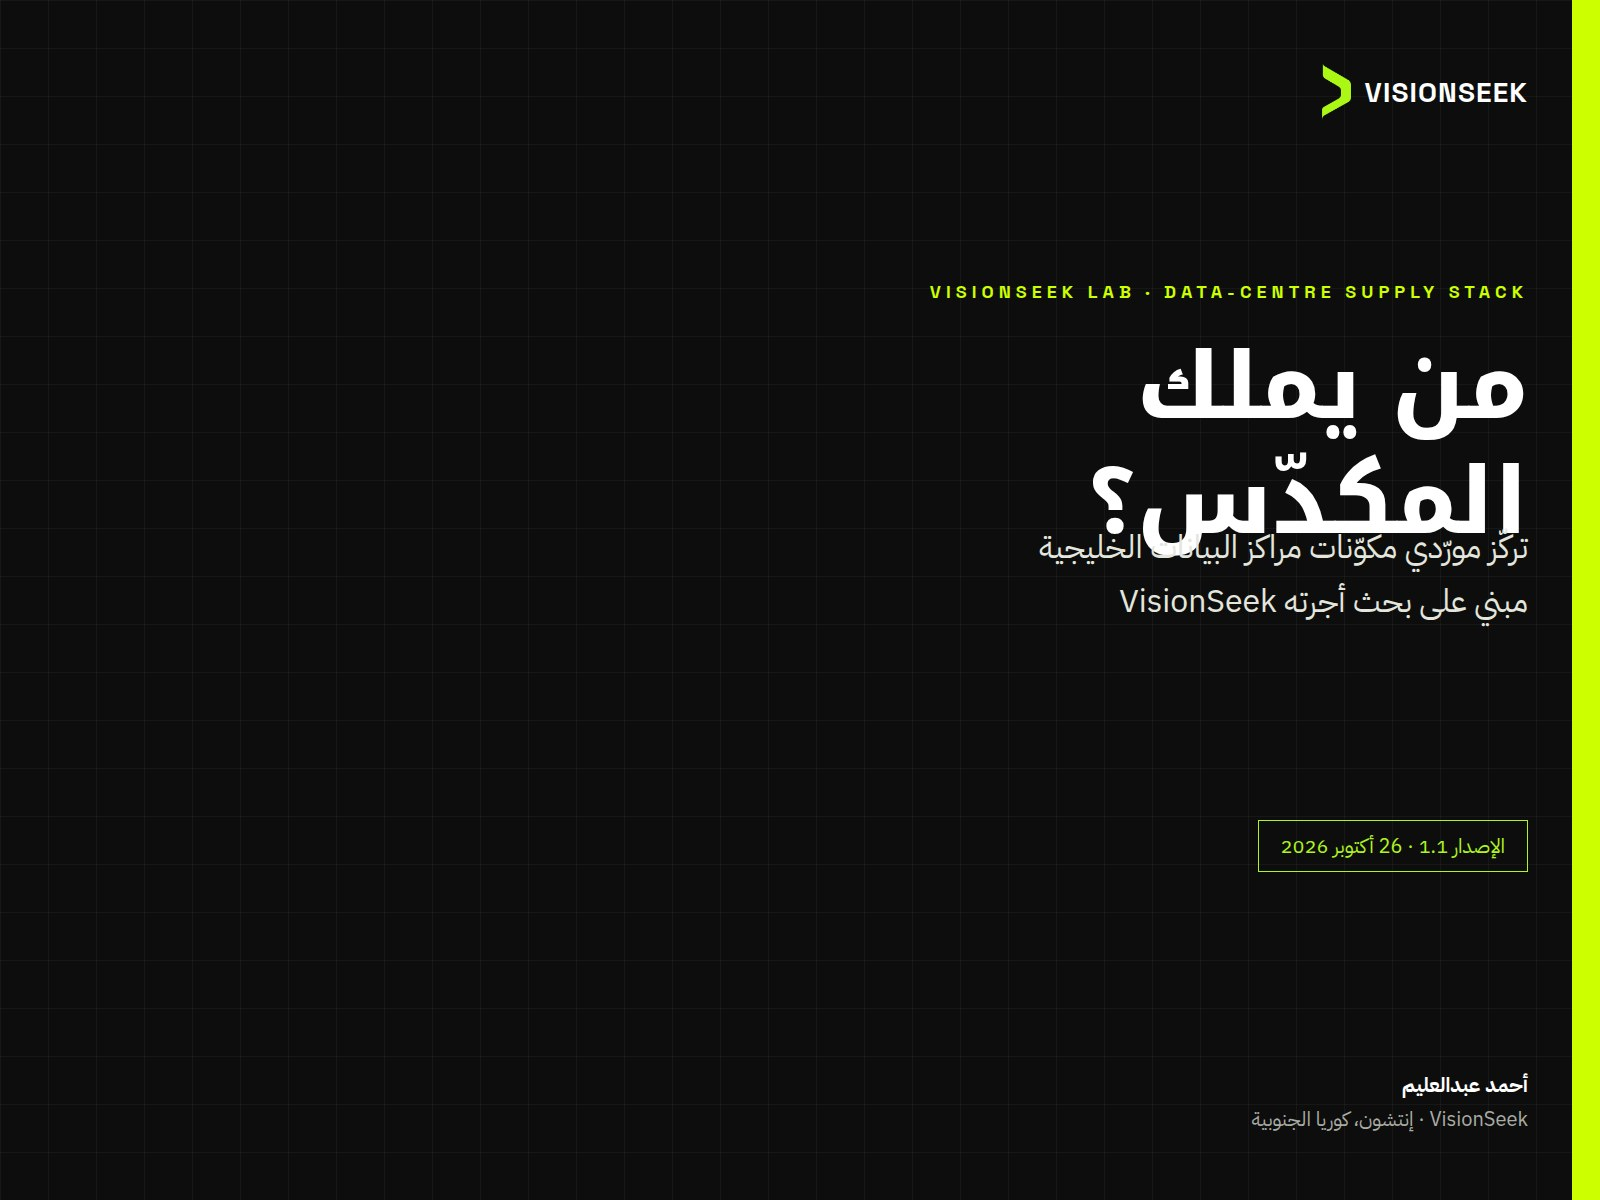
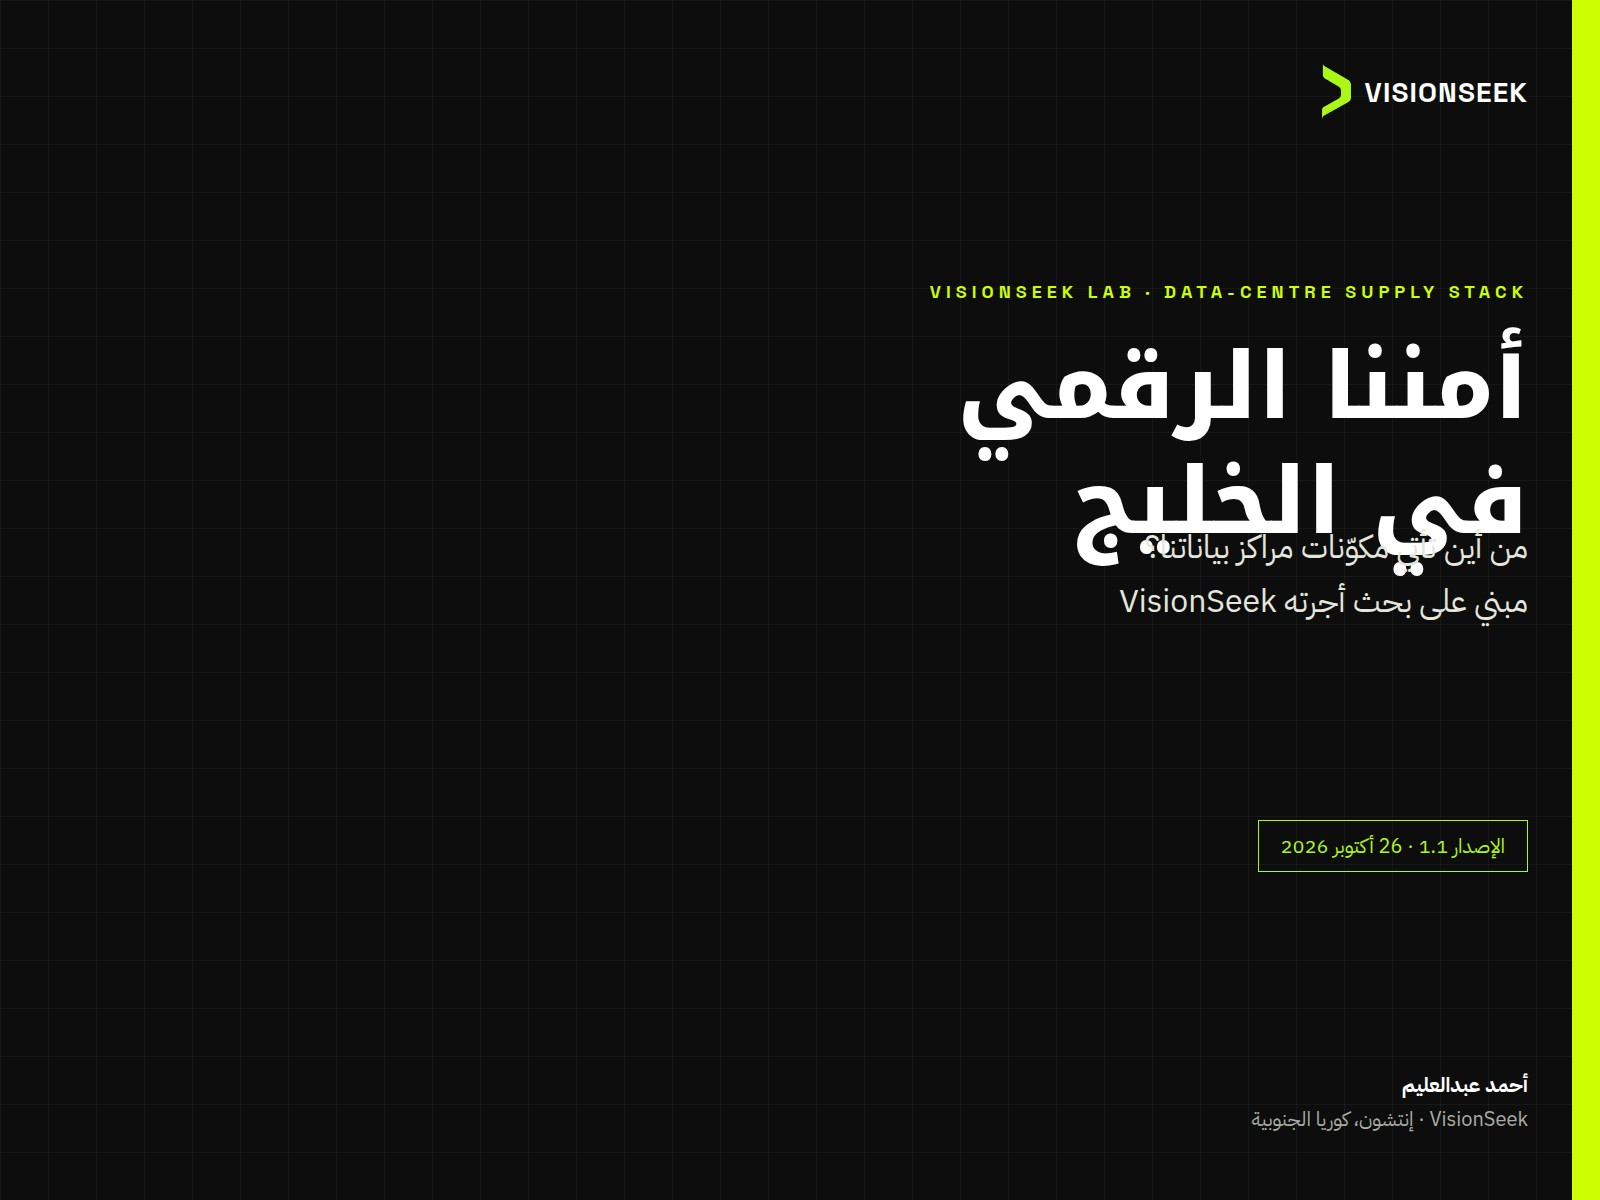
Preview: regenerate three report covers with the new titles
Listing cards were still showing the old headings on the cover images. Update cover.html and replace the public JPEGs so the card image matches the new Arabic title.

Changed region(s): [[0.5938, 0.2775, 0.9688, 0.4933]]

diff --git a/scripts/insights/ai-ministry-health-answers/cover.html b/scripts/insights/ai-ministry-health-answers/cover.html
@@ -2,7 +2,7 @@
 <html lang="ar" dir="rtl">
 <head>
 <meta charset="utf-8">
-<title>هل يجيب الذكاء الاصطناعي بما تقوله وزارات الصحة؟ — غلاف</title>
+<title>أمننا الصحي في الخليج — غلاف</title>
 <style>
 @font-face{font-family:"Plex Arabic";src:url(../doctrine/fonts/IBMPlexSansArabic-Regular.ttf);font-weight:400}
 @font-face{font-family:"Plex Arabic";src:url(../doctrine/fonts/IBMPlexSansArabic-Medium.ttf);font-weight:500}
@@ -31,8 +31,8 @@ h1{position:absolute;top:290px;right:72px;left:80px;font-family:"Kufi","Plex Ara
   <div class="bar"></div>
   <div class="brand"><img src="../doctrine/assets/visionseek-chevron.png" alt=""><span>VISIONSEEK</span></div>
   <p class="kicker">VISIONSEEK LAB · ARABIC HEALTH AI</p>
-  <h1>هل يجيب الذكاء الاصطناعي بما تقوله وزارات الصحة؟</h1>
-  <p class="sub">معلومات صحية رسمية بالفصحى واللهجات الخليجية<br>مبني على بحث أجرته VisionSeek</p>
+  <h1>أمننا الصحي في الخليج</h1>
+  <p class="sub">هل نثق بإجابات الذكاء الاصطناعي؟<br>مبني على بحث أجرته VisionSeek</p>
   <p class="badge">الإصدار 1.1 · 26 أكتوبر 2026</p>
   <p class="foot"><b>أحمد عبدالعليم</b><br>VisionSeek · إنتشون، كوريا الجنوبية</p>
 </div>

diff --git a/scripts/insights/gulf-medicine-ownership/cover.html b/scripts/insights/gulf-medicine-ownership/cover.html
@@ -2,7 +2,7 @@
 <html lang="ar" dir="rtl">
 <head>
 <meta charset="utf-8">
-<title>من يملك دواء الخليج؟ — غلاف</title>
+<title>أمننا الدوائي في الخليج — غلاف</title>
 <style>
 @font-face{font-family:"Plex Arabic";src:url(../doctrine/fonts/IBMPlexSansArabic-Regular.ttf);font-weight:400}
 @font-face{font-family:"Plex Arabic";src:url(../doctrine/fonts/IBMPlexSansArabic-Medium.ttf);font-weight:500}
@@ -31,8 +31,8 @@ h1{position:absolute;top:330px;right:72px;left:80px;font-family:"Kufi","Plex Ara
   <div class="bar"></div>
   <div class="brand"><img src="../doctrine/assets/visionseek-chevron.png" alt=""><span>VISIONSEEK</span></div>
   <p class="kicker">VISIONSEEK LAB · GULF MEDICINE IMPORTS</p>
-  <h1>من يملك<br>دواء الخليج؟</h1>
-  <p class="sub">تركّز واردات الدواء الجاهز مقابل المادة الفعالة<br>مبني على بحث أجرته VisionSeek</p>
+  <h1>أمننا الدوائي<br>في الخليج</h1>
+  <p class="sub">من أين يأتي دواؤنا الأساسي؟<br>مبني على بحث أجرته VisionSeek</p>
   <p class="badge">الإصدار 1.1 · 26 أكتوبر 2026</p>
   <p class="foot"><b>أحمد عبدالعليم</b><br>VisionSeek · إنتشون، كوريا الجنوبية</p>
 </div>

diff --git a/scripts/insights/gulf-data-center-stack/cover.html b/scripts/insights/gulf-data-center-stack/cover.html
@@ -2,7 +2,7 @@
 <html lang="ar" dir="rtl">
 <head>
 <meta charset="utf-8">
-<title>من يملك المكدّس؟ — غلاف</title>
+<title>أمننا الرقمي في الخليج — غلاف</title>
 <style>
 @font-face{font-family:"Plex Arabic";src:url(../doctrine/fonts/IBMPlexSansArabic-Regular.ttf);font-weight:400}
 @font-face{font-family:"Plex Arabic";src:url(../doctrine/fonts/IBMPlexSansArabic-Medium.ttf);font-weight:500}
@@ -31,8 +31,8 @@ h1{position:absolute;top:330px;right:72px;left:80px;font-family:"Kufi","Plex Ara
   <div class="bar"></div>
   <div class="brand"><img src="../doctrine/assets/visionseek-chevron.png" alt=""><span>VISIONSEEK</span></div>
   <p class="kicker">VISIONSEEK LAB · DATA-CENTRE SUPPLY STACK</p>
-  <h1>من يملك<br>المكدّس؟</h1>
-  <p class="sub">تركّز مورّدي مكوّنات مراكز البيانات الخليجية<br>مبني على بحث أجرته VisionSeek</p>
+  <h1>أمننا الرقمي<br>في الخليج</h1>
+  <p class="sub">من أين تأتي مكوّنات مراكز بياناتنا؟<br>مبني على بحث أجرته VisionSeek</p>
   <p class="badge">الإصدار 1.1 · 26 أكتوبر 2026</p>
   <p class="foot"><b>أحمد عبدالعليم</b><br>VisionSeek · إنتشون، كوريا الجنوبية</p>
 </div>
